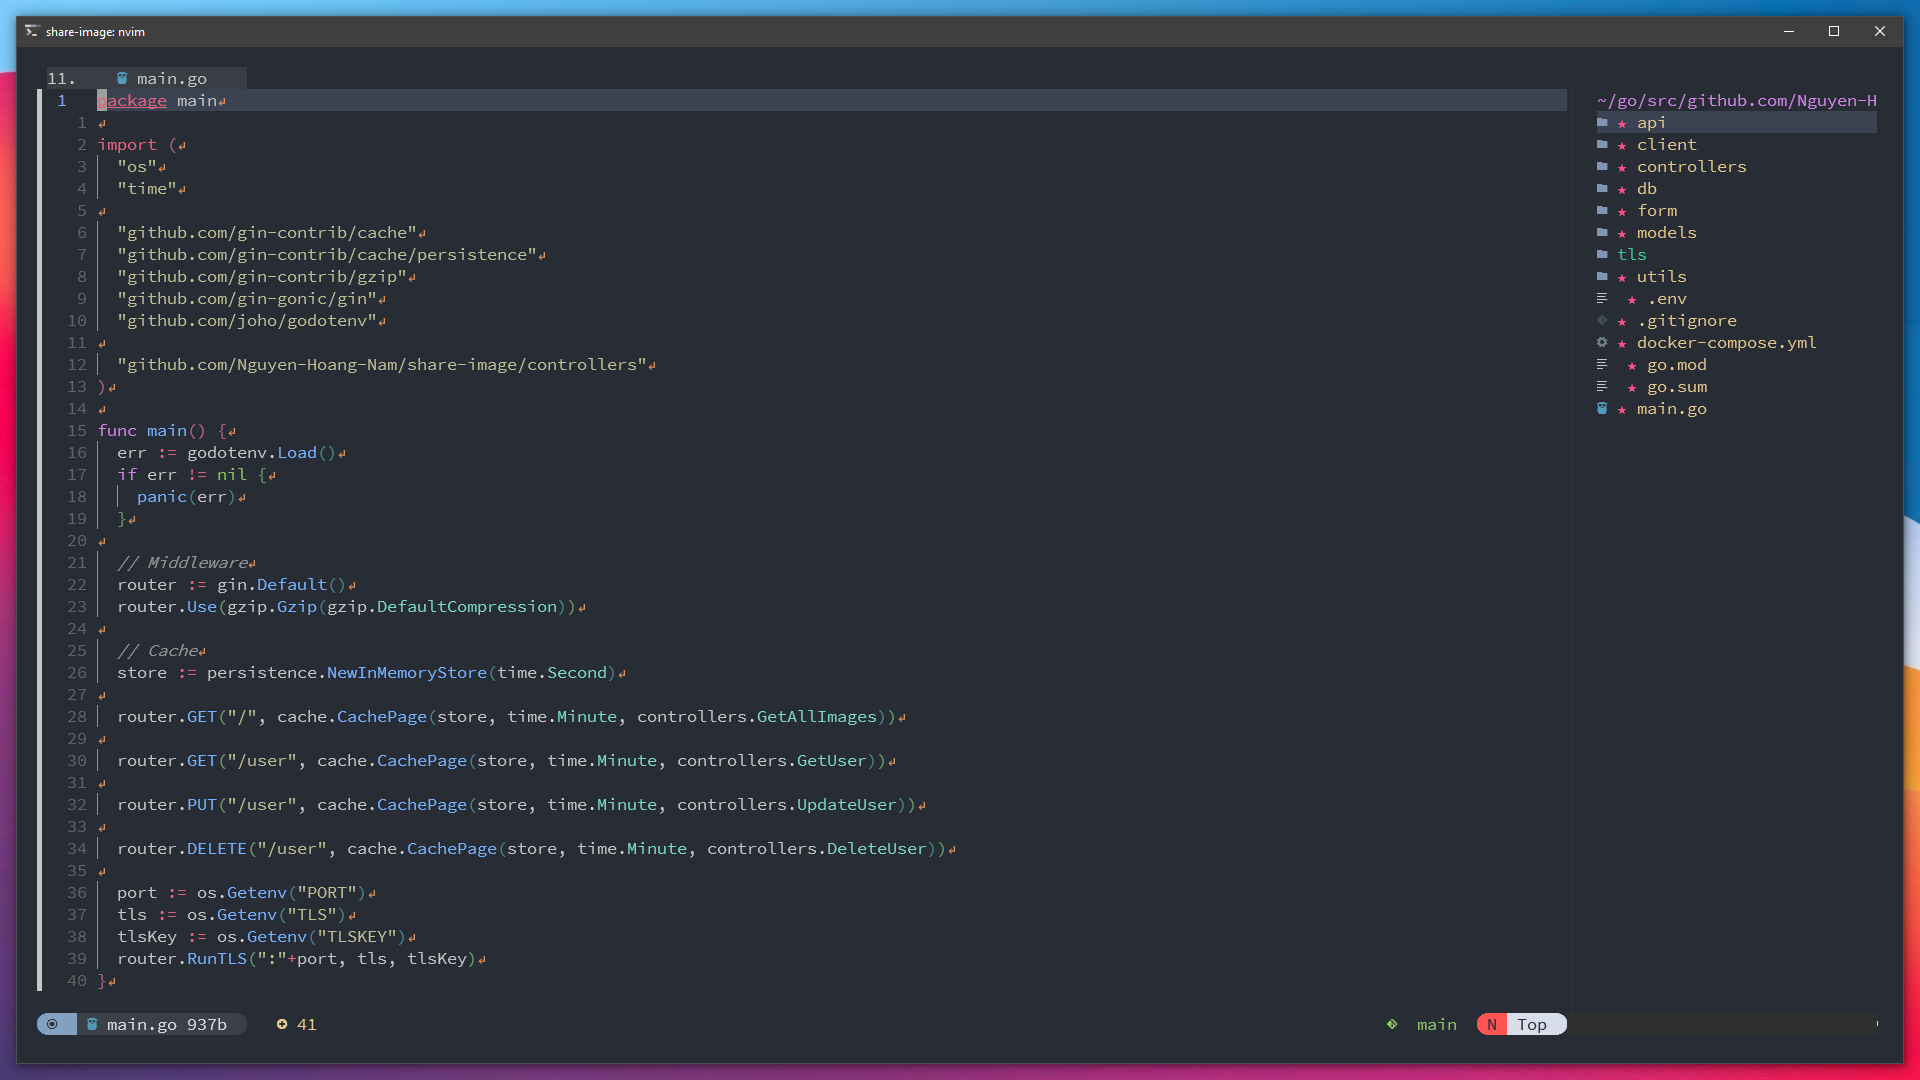
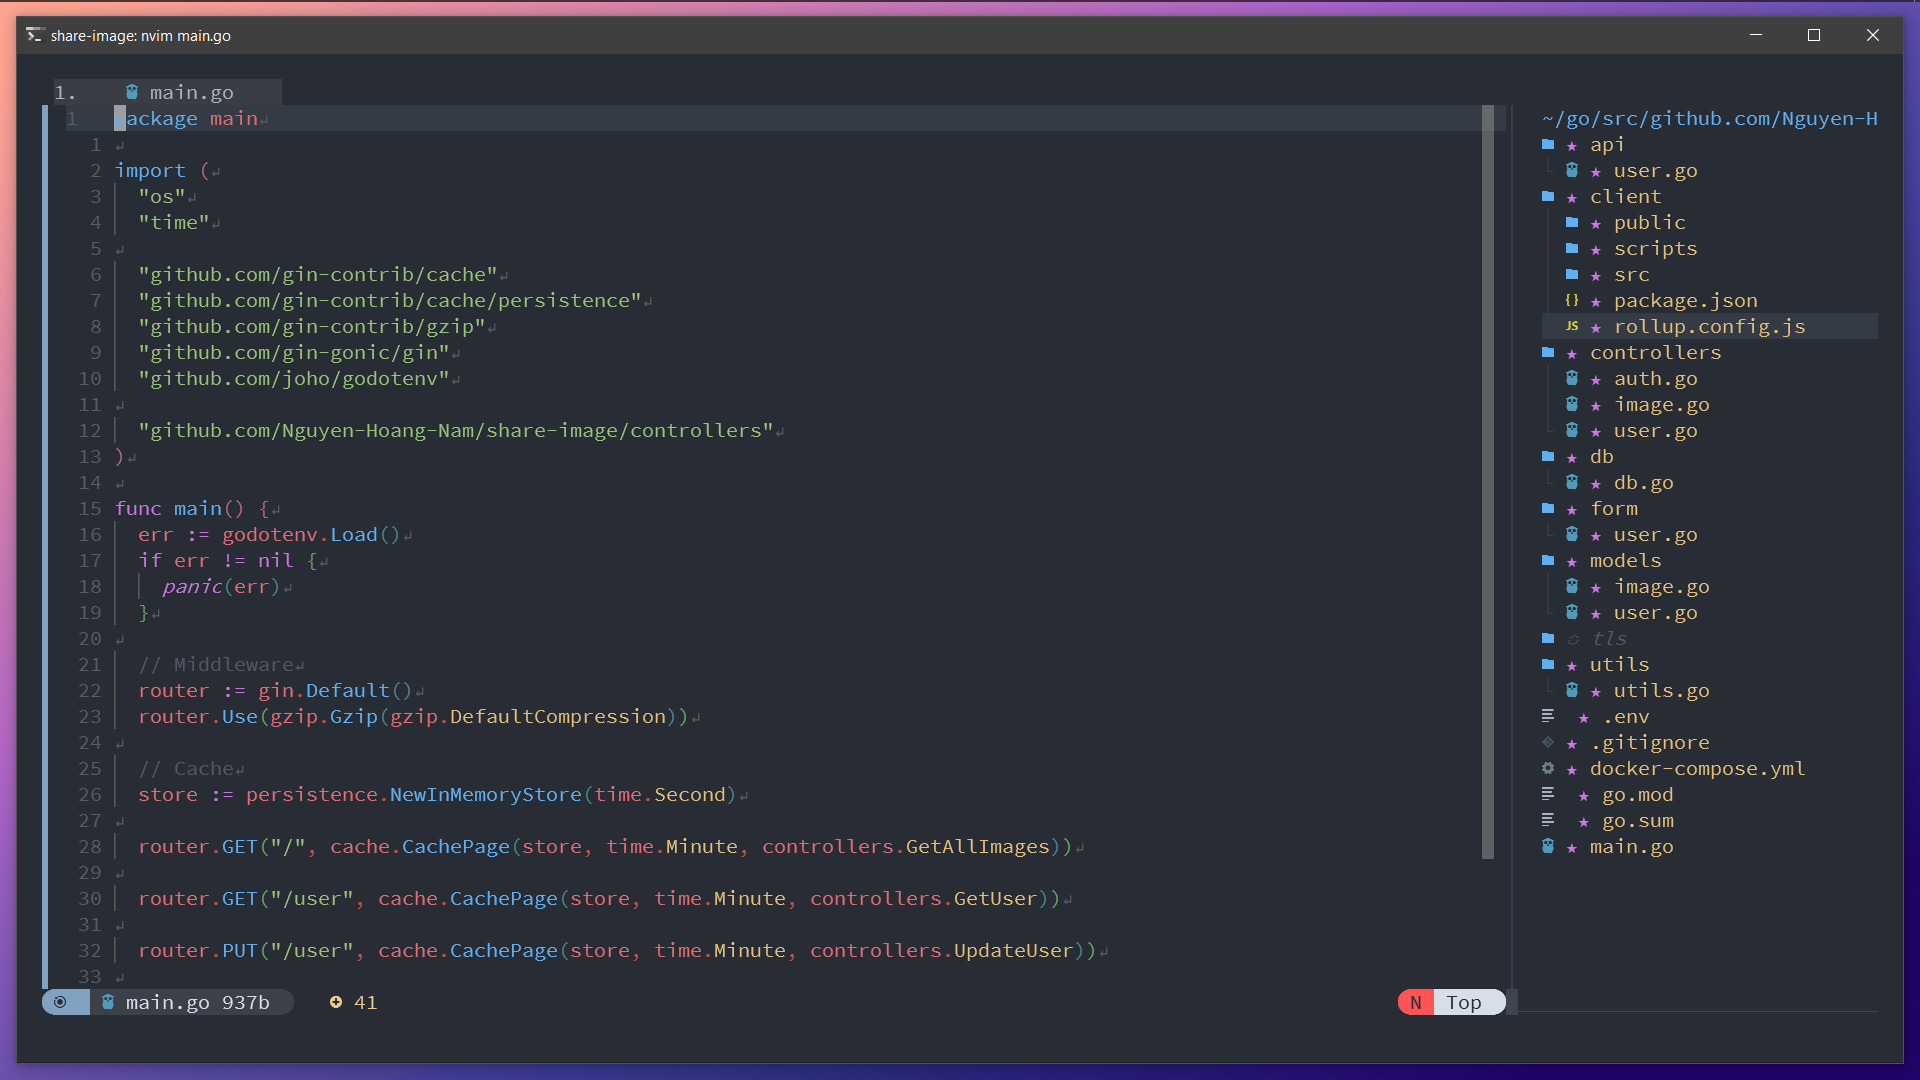
✨ Update config
_ Use scrollview instead of scrollbar
_ Use nvim-comment instead of nerdcommenter
_ Use nvim-colorizer instead of vim-hexokinase
_ Use toggleterm instead of vim-floaterm
_ Use gitsigns for blameline
_ Use vim-illuminate instead of vim-cursorword
_ Move to onedark base16
_ Hide statusline in nvim-tree
_ Show document in nvim-compe

diff --git a/README.md b/README.md
@@ -2,33 +2,30 @@
 
 🍕 Inspiring from [siduck76/neovim-dots](https://github.com/siduck76/neovim-dots) but wsl2
 
-![Main](./images/screenshot1.png)
+![Main](https://raw.githubusercontent.com/Nguyen-Hoang-Nam/neovim-config-wsl2/main/images/screenshot1.png)
 
 ## 🙈 Differentation
 
-- Support clipboard in WSL2 by using win32yank
-- Use Floaterm to show terminal
-- Show dashboard
-- Show scrollbar
-- Support preview markdown by using Glow
-- Preview color by using vim-hexokinase
+- Support clipboard in WSL2 by using `win32yank`
+- Use `ToggleTerm` for terminal
+- Use `Dashboard` for dashboard
+- Use `ScrollView` for scrollbar
+- Use `Glow` to review markdown
+- Use `Colorizer` to review color
 - Support fuzzy find gitmoji
-- Show eol icon
-- Alway show help in vertical
-- Show nvim-tree in right
-- Use theme moonfly
-- Hide close icon in buffer line
+- Show EOL icon
+- Alway show help in right
+- Show `nvim-tree` in right
 - Install plugin manually
 
 ## 🗺 Mappings
 
-- Auto indent when paste
-- Moving line up, down by Alt + k/j
-- Open terminal Alt + t
-- Comment code Space + /
-- Preview markdown Space + r
-- Find file Space + p
-- Find gitmoji Space + e
+- Moving line up, down by `Alt + k/j`
+- Open terminal `Alt + t`
+- Comment code `Space + /`
+- Preview markdown `Space + r`
+- Find file `Space + p`
+- Find gitmoji `Space + e`
 
 ## 🚀 LSP config
 
@@ -47,33 +44,64 @@
 
 ## 🍔 Plugins
 
-![Plugin list](./images/screenshot8.png)
+| Plugin              | Repository                                         |
+| ------------------- | -------------------------------------------------- |
+| dashboard-nvim      | https://github.com/glepnir/dashboard-nvim          |
+| galaxyline.nvim     | https://github.com/glepnir/galaxyline.nvim         |
+| gitsigns.nvim       | https://github.com/lewis6991/gitsigns.nvim         |
+| glow.nvim           | https://github.com/npxbr/glow.nvim                 |
+| lsp-trouble.nvim    | https://github.com/folke/lsp-trouble.nvim          |
+| lspkind-nvim        | https://github.com/onsails/lspkind-nvim            |
+| neoformat           | https://github.com/sbdchd/neoformat                |
+| neoscroll.nvim      | https://github.com/karb94/neoscroll.nvim           |
+| nvim-autopair       | https://github.com/windwp/nvim-autopairs           |
+| nvim-base16         | https://github.com/chriskempson/base16-vim         |
+| nvim-bufferline.lua | https://github.com/akinsho/nvim-bufferline.lua     |
+| nvim-colorizer.lua  | https://github.com/norcalli/nvim-colorizer.lua     |
+| nvim-comment        | https://github.com/terrortylor/nvim-comment        |
+| nvim-compe          | https://github.com/hrsh7th/nvim-compe              |
+| nvim-lspconfig      | https://github.com/neovim/nvim-lspconfig           |
+| nvim-scrollview     | https://github.com/dstein64/nvim-scrollview        |
+| nvim-toggleterm.lua | https://github.com/akinsho/nvim-toggleterm.lua     |
+| nvim-tree.lua       | https://github.com/kyazdani42/nvim-tree.lua        |
+| nvim-treesitter     | https://github.com/nvim-treesitter/nvim-treesitter |
+| nvim-ts-rainbow     | https://github.com/p00f/nvim-ts-rainbow            |
+| nvim-web-devicons   | https://github.com/kyazdani42/nvim-web-devicons    |
+| plenary.nvim        | https://github.com/nvim-lua/plenary.nvim           |
+| popup.nvim          | https://github.com/nvim-lua/popup.nvim             |
+| telescope.nvim      | https://github.com/nvim-telescope/telescope.nvim   |
+| vim-closetag        | https://github.com/alvan/vim-closetag              |
+| vim-easy-align      | https://github.com/junegunn/vim-easy-align         |
+| vim-illuminate      | https://github.com/RRethy/vim-illuminate           |
+| vim-jsdoc           | https://github.com/heavenshell/vim-jsdoc           |
+| vim-move            | https://github.com/matze/vim-move                  |
+| vim-surround        | https://github.com/tpope/vim-surround              |
 
 ## 📷 Screenshot
 
 #### Golang
 
-![Golang project](./images/screenshot2.png)
+![Golang project](https://raw.githubusercontent.com/Nguyen-Hoang-Nam/neovim-config-wsl2/main/images/screenshot2.png)
 
 #### Python
 
-![Python project](./images/screenshot3.png)
+![Python project](https://raw.githubusercontent.com/Nguyen-Hoang-Nam/neovim-config-wsl2/main/images/screenshot3.png)
 
 #### Javscript
 
-![Javascript project](./images/screenshot4.png)
+![Javascript project](https://raw.githubusercontent.com/Nguyen-Hoang-Nam/neovim-config-wsl2/main/images/screenshot4.png)
 
 #### Dashboard
 
-![Dashboard](./images/screenshot5.png)
+![Dashboard](https://raw.githubusercontent.com/Nguyen-Hoang-Nam/neovim-config-wsl2/main/images/screenshot5.png)
 
 #### Telescope
 
-![Telescope](./images/screenshot6.png)
+![Telescope](https://raw.githubusercontent.com/Nguyen-Hoang-Nam/neovim-config-wsl2/main/images/screenshot6.png)
 
 #### Gitmoji
 
-![Gitmoji](./images/screenshot7.png)
+![Gitmoji](https://raw.githubusercontent.com/Nguyen-Hoang-Nam/neovim-config-wsl2/main/images/screenshot7.png)
 
 ## Contributing
 
